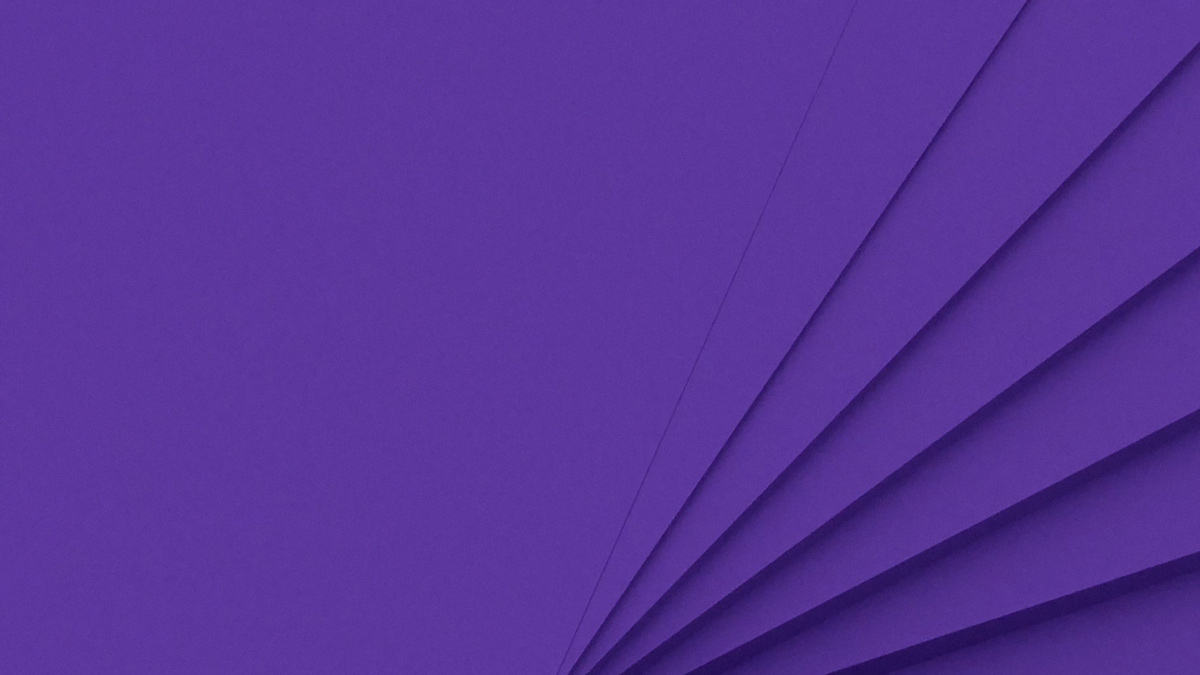
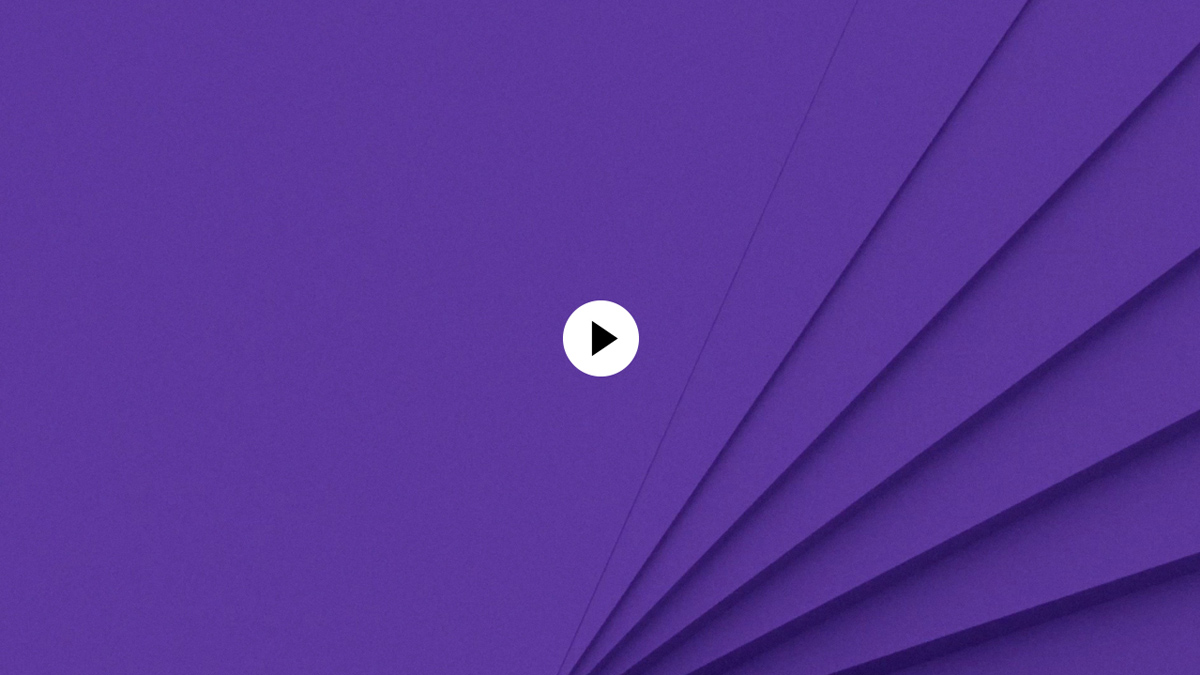
preloader gif + video thumbnail id + xs-menu z-index

Changed region(s): [[0.4625, 0.4356, 0.555, 0.56]]

diff --git a/code/sydneyoperahouse.html b/code/sydneyoperahouse.html
@@ -169,10 +169,10 @@ Sydney Opera House</h3>
 $(document).ready(function() {
     
   $("#thumbnail-SOH1").click(function () {
-    $(".videothumbnail").fadeOut("slow");
+    $("#thumbnail-SOH1").fadeOut("slow");
   });
     
-    $('#thumbnail-SOH1').on('click', function(ev) {
+    $("#thumbnail-SOH1").on('click', function(ev) {
         $("#video-SOH1")[0].src += "?autoplay=1";
         ev.preventDefault();
  
@@ -217,10 +217,10 @@ So we created Shifting Perspectives — a brand idea that inspires conversation 
 $(document).ready(function() {
     
   $("#thumbnail-SOH2").click(function () {
-    $(".videothumbnail").fadeOut("slow");
+    $("#thumbnail-SOH2").fadeOut("slow");
   });
     
-    $('#thumbnail-SOH2').on('click', function(ev) {
+    $("#thumbnail-SOH2").on('click', function(ev) {
         $("#video-SOH2")[0].src += "?autoplay=1";
         ev.preventDefault();
  
@@ -304,7 +304,7 @@ $(document).ready(function() {
 $(document).ready(function() {
     
   $("#thumbnail-SOH3").click(function () {
-    $(".videothumbnail").fadeOut("slow");
+    $('#thumbnail-SOH3').fadeOut("slow");
   });
     
     $('#thumbnail-SOH3').on('click', function(ev) {

diff --git a/code/css/stylesheet.css b/code/css/stylesheet.css
@@ -25,10 +25,18 @@
     position: absolute;
     left: 50%;
     top: 50%;
-    background-image: url(../../links/images/samlloyd.gif);
+    background-image: url(../../links/images/preloader.gif);
     background-repeat: no-repeat;
     background-position: center;
     margin: -100px 0 0 -100px;
+    max-width: 100%;
+    image-rendering: optimizeSpeed;             /* STOP SMOOTHING, GIVE ME SPEED  */
+    image-rendering: -moz-crisp-edges;          /* Firefox                        */
+    image-rendering: -o-crisp-edges;            /* Opera                          */
+    image-rendering: -webkit-optimize-contrast; /* Chrome (and eventually Safari) */
+    image-rendering: pixelated; /* Chrome */
+    image-rendering: optimize-contrast;         /* CSS3 Proposed                  */
+    -ms-interpolation-mode: nearest-neighbor;   /* IE8+                           */
 }
 
 /* XS page setup */
@@ -487,7 +495,7 @@ a.clickable:hover {
     padding: 0px    
 }
     .xs-menu {
-    z-index: 5;
+    z-index: 15;
     position: fixed;
     left: 0;
     top: 0;

diff --git a/index.html b/index.html
@@ -272,7 +272,7 @@ $(document).ready(function(){
 /* TODO ↳ [x] XS - update footer */
 /* TODO ↳ [x] H E L L O gif/transition */
 /* TODO ↳ [x] better solution for video thumbnails */
-/* TODO ↳ preloader (logo w/ sparkles or loading bar) */
+/* TODO ↳ [x] preloader */
 
 /* CHANGES about page */
 /* TODO ↳ finalise design */
